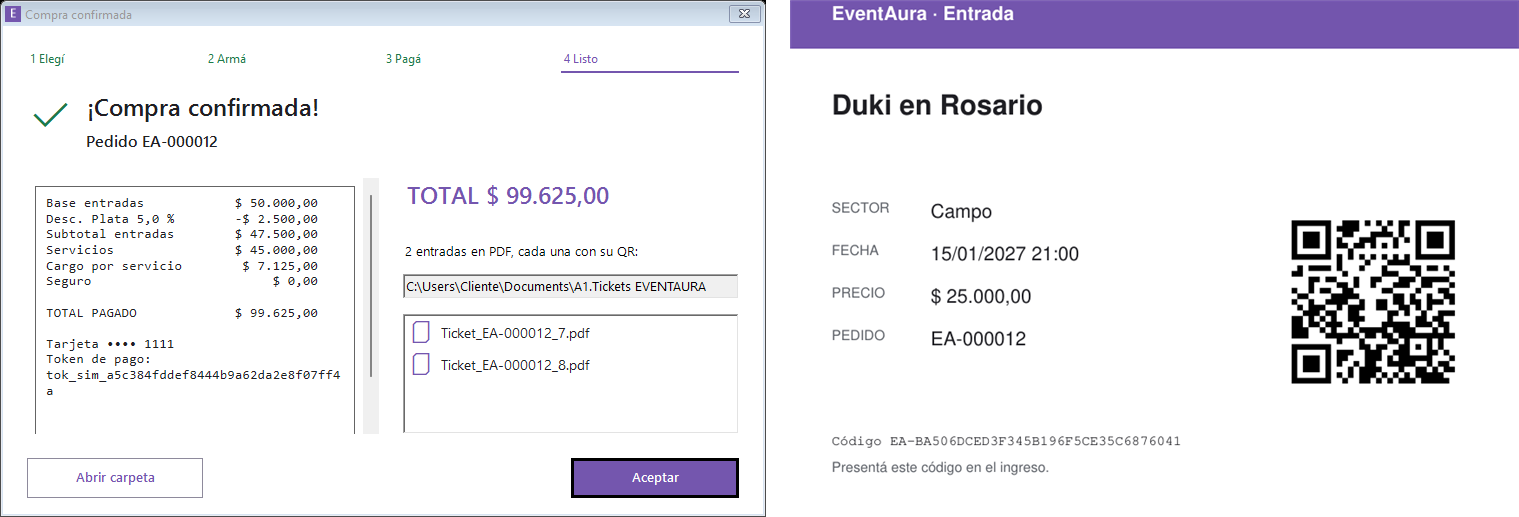
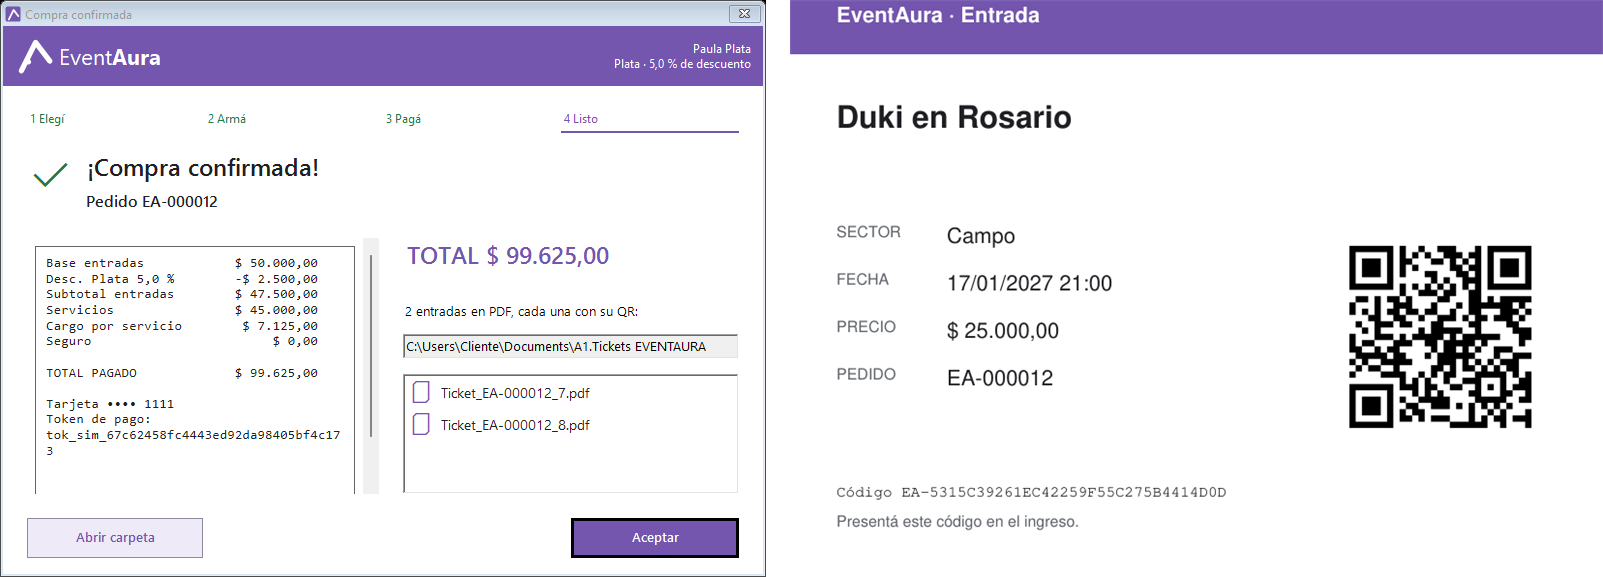
test: blindar códigos de cuenta y regenerar figuras de Paula

diff --git a/Pruebas/PruebasSeguridadCuenta.cs b/Pruebas/PruebasSeguridadCuenta.cs
@@ -1,4 +1,6 @@
 using System;
+using System.Diagnostics;
+using System.Linq;
 using System.Windows.Forms;
 using Datos;
 using Entidades;
@@ -41,6 +43,8 @@ namespace Pruebas
                     var mensaje = EnviadorSimulado.Ultimo(correo, "Verificacion");
                     Assert.IsNotNull(mensaje);
                     Assert.IsNotNull(form.Controls.Find("bandejaCorreoSimulada", true)[0]);
+                    Assert.IsTrue(ControlDe<Label>(form, "mensajeBandeja").Text.Contains(mensaje.Codigo));
+                    Assert.IsFalse(ControlDe<Label>(form, "estadoVerificacion").Text.Contains(mensaje.Codigo));
                     Assert.IsFalse(RepositorioUsuarios.Instance.CorreoVerificado(RepositorioUsuarios.Instance.ObtenerPorMail(correo).Id));
                     ControlDe<TextBox>(form, "txtCodigoCorreo").Text = mensaje.Codigo;
                     ControlDe<Button>(form, "btnConfirmarCorreo").PerformClick();
@@ -127,7 +131,11 @@ namespace Pruebas
                     ControlDe<Button>(form, "btnEnviarCodigo").PerformClick();
                     var mensaje = EnviadorSimulado.Ultimo(cliente.Mail, "Recuperacion");
                     Assert.IsNotNull(mensaje);
-                    Assert.IsTrue(ControlDe<Label>(form, "estadoRecuperacion").Text.Contains(mensaje.Codigo));
+                    Assert.AreEqual("Si la cuenta existe, enviamos un código.", ControlDe<Label>(form, "estadoRecuperacion").Text);
+                    Assert.IsFalse(TextosVisibles(form).Any(t => t.Contains(mensaje.Codigo)), "El formulario solicitante no muestra el código.");
+                    using (var bandeja = new Visual.frmBandejaSimulada(cliente.Mail, "Recuperacion"))
+                        Assert.IsTrue(ControlDe<Label>(bandeja, "mensajeBandejaSimulada").Text.Contains(mensaje.Codigo), "El código aparece solamente al abrir la bandeja simulada.");
+                    Assert.IsTrue(AbrirBandejaYVerCodigo(form, "btnAbrirBandejaSimulada", mensaje.Codigo));
                     ControlDe<TextBox>(form, "txtActual").Text = mensaje.Codigo;
                     ControlDe<TextBox>(form, "TxtPassword").Text = "NuevaClave123";
                     ControlDe<TextBox>(form, "TxtConfirmpassword").Text = "NuevaClave123";
@@ -137,6 +145,152 @@ namespace Pruebas
                     Assert.IsFalse(Seguridad.Verificar("Cliente123", hash));
                 }
             });
+        }
+
+        [TestMethod("CP-200: Recuperación no enumera correos y la respuesta tarda lo mismo")]
+        public void CP200_RecuperacionNoEnumeraYRespondeUniforme()
+        {
+            EnSta(() =>
+            {
+                const string existente = "admin@eventaura.com";
+                const string inexistente = "test-no-existe@pruebas.eventaura.com";
+                using (var form = new Visual.frmCambiarContraseña(true))
+                {
+                    Mostrar(form);
+                    ControlDe<TextBox>(form, "txtMail").Text = existente;
+                    var relojExistente = Stopwatch.StartNew();
+                    ControlDe<Button>(form, "btnEnviarCodigo").PerformClick();
+                    relojExistente.Stop();
+                    string respuestaExistente = ControlDe<Label>(form, "estadoRecuperacion").Text;
+                    var codigoExistente = EnviadorSimulado.Ultimo(existente, "Recuperacion");
+                    Assert.IsNotNull(codigoExistente);
+                    Assert.IsFalse(TextosVisibles(form).Any(t => t.Contains(codigoExistente.Codigo)));
+
+                    ControlDe<TextBox>(form, "txtMail").Text = inexistente;
+                    var relojInexistente = Stopwatch.StartNew();
+                    ControlDe<Button>(form, "btnEnviarCodigo").PerformClick();
+                    relojInexistente.Stop();
+                    string respuestaInexistente = ControlDe<Label>(form, "estadoRecuperacion").Text;
+                    var señuelo = EnviadorSimulado.Ultimo(inexistente, "Recuperacion");
+
+                    Assert.AreEqual("Si la cuenta existe, enviamos un código.", respuestaExistente);
+                    Assert.AreEqual(respuestaExistente, respuestaInexistente);
+                    Assert.IsNotNull(señuelo, "La bandeja simulada muestra el mismo formato para la dirección desconocida.");
+                    Assert.IsFalse(TextosVisibles(form).Any(t => t.Contains(señuelo.Codigo)));
+                    Assert.IsTrue(relojExistente.ElapsedMilliseconds >= 950 && relojInexistente.ElapsedMilliseconds >= 950,
+                        "Ambas solicitudes respetan el tiempo mínimo de respuesta uniforme.");
+                    Assert.IsTrue(Math.Abs(relojExistente.ElapsedMilliseconds - relojInexistente.ElapsedMilliseconds) < 400,
+                        "La diferencia observada entre los dos tiempos debe ser menor a 400 ms.");
+
+                    var error = Assert.ThrowsException<ReglaNegocioException>(() =>
+                        GestorCodigosCorreo.Instance.RecuperarContrasena(inexistente, señuelo.Codigo, "NuevaClave123"));
+                    Assert.AreEqual("RN-44", error.Regla);
+                    Assert.AreEqual("El código no es válido o venció. Solicitá uno nuevo.", error.Message);
+                }
+            });
+        }
+
+        [TestMethod("CP-201: Un nuevo código invalida el anterior y solo se usa una vez")]
+        public void CP201_CodigoAnteriorInvalidoYUnSoloUso()
+        {
+            var cliente = Fake.Cliente(NivelFidelidad.Bronce);
+            GestorCodigosCorreo.Instance.SolicitarRecuperacion(cliente.Mail);
+            var anterior = EnviadorSimulado.Ultimo(cliente.Mail, "Recuperacion");
+            GestorCodigosCorreo.Instance.SolicitarRecuperacion(cliente.Mail);
+            var actual = EnviadorSimulado.Ultimo(cliente.Mail, "Recuperacion");
+            Assert.IsNotNull(anterior);
+            Assert.IsNotNull(actual);
+            Assert.AreNotEqual(anterior.Codigo, actual.Codigo);
+            var errorAnterior = Assert.ThrowsException<ReglaNegocioException>(() =>
+                GestorCodigosCorreo.Instance.RecuperarContrasena(cliente.Mail, anterior.Codigo, "NuevaClave123"));
+            Assert.AreEqual("El código no es válido o venció. Solicitá uno nuevo.", errorAnterior.Message);
+
+            GestorCodigosCorreo.Instance.RecuperarContrasena(cliente.Mail, actual.Codigo, "NuevaClave123");
+            var errorReutilizado = Assert.ThrowsException<ReglaNegocioException>(() =>
+                GestorCodigosCorreo.Instance.RecuperarContrasena(cliente.Mail, actual.Codigo, "OtraClave123"));
+            Assert.AreEqual("El código no es válido o venció. Solicitá uno nuevo.", errorReutilizado.Message);
+        }
+
+        [TestMethod("CP-203: El alta existente y nueva entrega la misma respuesta de verificación")]
+        public void CP203_RegistroNoEnumeraCorreoExistente()
+        {
+            EnSta(() =>
+            {
+                string correo = Fake.MailNuevo();
+                long tiempoNuevo;
+                using (var nuevo = new Visual.frmCrearUsuario())
+                {
+                    Mostrar(nuevo);
+                    CompletarAlta(nuevo, correo, "PrimeraClave123", "Primero");
+                    var reloj = Stopwatch.StartNew();
+                    ControlDe<Button>(nuevo, "btnregistrarse").PerformClick();
+                    reloj.Stop();
+                    tiempoNuevo = reloj.ElapsedMilliseconds;
+                    Assert.IsNotNull(nuevo.Controls.Find("bandejaCorreoSimulada", true).Single());
+                }
+
+                string hashAnterior = RepositorioUsuarios.Instance.ObtenerPorMail(correo).Contraseña;
+                long tiempoExistente;
+                using (var existente = new Visual.frmCrearUsuario())
+                {
+                    Mostrar(existente);
+                    CompletarAlta(existente, correo, "OtraClave456", "Segundo");
+                    var reloj = Stopwatch.StartNew();
+                    ControlDe<Button>(existente, "btnregistrarse").PerformClick();
+                    reloj.Stop();
+                    tiempoExistente = reloj.ElapsedMilliseconds;
+                    Assert.IsNotNull(existente.Controls.Find("bandejaCorreoSimulada", true).Single());
+                    var mensaje = EnviadorSimulado.Ultimo(correo, "Verificacion");
+                    Assert.IsNotNull(mensaje);
+                    Assert.IsTrue(ControlDe<Label>(existente, "mensajeBandeja").Text.Contains(mensaje.Codigo));
+                }
+
+                Assert.AreEqual(hashAnterior, RepositorioUsuarios.Instance.ObtenerPorMail(correo).Contraseña,
+                    "El intento de alta repetido no cambia la contraseña de la cuenta existente.");
+                Assert.IsTrue(tiempoNuevo >= 950 && tiempoExistente >= 950);
+                Assert.IsTrue(Math.Abs(tiempoNuevo - tiempoExistente) < 400,
+                    "El alta nueva y el correo ya registrado tardan lo mismo hasta mostrar la bandeja.");
+            });
+        }
+
+        private static void CompletarAlta(Visual.frmCrearUsuario form, string correo, string clave, string nombre)
+        {
+            ControlDe<TextBox>(form, "txtNombre").Text = nombre;
+            ControlDe<TextBox>(form, "txtApellido").Text = "Prueba";
+            ControlDe<TextBox>(form, "txtmail").Text = correo;
+            ControlDe<TextBox>(form, "TxtPassword").Text = clave;
+            ControlDe<TextBox>(form, "TxtConfirmpassword").Text = clave;
+        }
+
+        private static System.Collections.Generic.IEnumerable<string> TextosVisibles(Control padre)
+        {
+            foreach (Control control in padre.Controls)
+            {
+                if (!string.IsNullOrEmpty(control.Text)) yield return control.Text;
+                foreach (string texto in TextosVisibles(control)) yield return texto;
+            }
+        }
+
+        private static bool AbrirBandejaYVerCodigo(Control origen, string nombreBoton, string codigo)
+        {
+            bool abierta = false;
+            bool codigoVisible = false;
+            using (var temporizador = new Timer { Interval = 25 })
+            {
+                temporizador.Tick += (s, e) =>
+                {
+                    var bandeja = Application.OpenForms.OfType<Visual.frmBandejaSimulada>().FirstOrDefault(f => f.Visible);
+                    if (bandeja == null) return;
+                    abierta = true;
+                    codigoVisible = ControlDe<Label>(bandeja, "mensajeBandejaSimulada").Text.Contains(codigo);
+                    bandeja.Close();
+                    temporizador.Stop();
+                };
+                temporizador.Start();
+                ControlDe<Button>(origen, nombreBoton).PerformClick();
+                temporizador.Stop();
+            }
+            return abierta && codigoVisible;
         }
 
         [TestMethod("CP-174: La sesión avisa y vence por inactividad, y la auditoría queda consultable solo por administración")]

diff --git a/Pruebas/PruebasSolicitudesOrganizador.cs b/Pruebas/PruebasSolicitudesOrganizador.cs
@@ -190,6 +190,60 @@ namespace Pruebas
             Assert.IsTrue(auditoria.Any(x=>x.UsuarioId==admin.Id && x.EntidadId==id && x.Resultado=="Datos de demostración revisados."));
         }
 
+        [TestMethod("CP-202: El código telefónico solo aparece al abrir la bandeja simulada")]
+        public void CP202_CodigoTelefonoNoApareceEnLaSolicitud()
+        {
+            InterfazGrupoA.EnSta(() =>
+            {
+                var solicitante = Fake.Cliente(NivelFidelidad.Bronce);
+                Fake.ComoCliente(solicitante);
+                using (var form = new Visual.frmSolicitudOrganizador())
+                {
+                    InterfazGrupoA.Mostrar(form);
+                    InterfazGrupoA.ControlDe<TextBox>(form, "telefono").Text = Telefono;
+                    InterfazGrupoA.ControlDe<Button>(form, "btnEnviarCodigoTelefono").PerformClick();
+                    var mensaje = EnviadorSimulado.Ultimo(Telefono, GestorCodigosCorreo.PropositoTelefonoOrganizador);
+                    Assert.IsNotNull(mensaje, InterfazGrupoA.ControlDe<Label>(form, "estadoEnvioTelefono").Text);
+                    Assert.AreEqual("Si el teléfono es válido, enviamos un código a la bandeja simulada.",
+                        InterfazGrupoA.ControlDe<Label>(form, "estadoEnvioTelefono").Text);
+                    Assert.IsFalse(TextosVisibles(form).Any(t => t.Contains(mensaje.Codigo)),
+                        "El código no debe aparecer en el formulario que lo solicita.");
+                    Assert.IsTrue(AbrirBandejaYVerCodigo(form, mensaje.Codigo));
+                }
+            });
+        }
+
+        private static System.Collections.Generic.IEnumerable<string> TextosVisibles(Control padre)
+        {
+            foreach (Control control in padre.Controls)
+            {
+                if (!string.IsNullOrEmpty(control.Text)) yield return control.Text;
+                foreach (string texto in TextosVisibles(control)) yield return texto;
+            }
+        }
+
+        private static bool AbrirBandejaYVerCodigo(Control origen, string codigo)
+        {
+            bool abierta = false;
+            bool codigoVisible = false;
+            using (var temporizador = new Timer { Interval = 25 })
+            {
+                temporizador.Tick += (s, e) =>
+                {
+                    var bandeja = Application.OpenForms.OfType<Visual.frmBandejaSimulada>().FirstOrDefault(f => f.Visible);
+                    if (bandeja == null) return;
+                    abierta = true;
+                    codigoVisible = InterfazGrupoA.ControlDe<Label>(bandeja, "mensajeBandejaSimulada").Text.Contains(codigo);
+                    bandeja.Close();
+                    temporizador.Stop();
+                };
+                temporizador.Start();
+                InterfazGrupoA.ControlDe<Button>(origen, "btnAbrirBandejaTelefono").PerformClick();
+                temporizador.Stop();
+            }
+            return abierta && codigoVisible;
+        }
+
         private SolicitudOrganizador SolicitudValida() => new SolicitudOrganizador { Responsable="Responsable de prueba", Cuit="20-12345678-6", Telefono=Telefono,
             NombreLocal="test local de prueba", Direccion="Dirección de prueba 123", Capacidad=100, CbuAlias=new string('0',22), Documentacion=Png, NombreArchivo="constancia.png" };
 

diff --git a/Pruebas/PruebasFormularios.cs b/Pruebas/PruebasFormularios.cs
@@ -53,7 +53,12 @@ namespace Pruebas
                     else if (tipo.Name == "frmSolicitudOrganizador") Fake.ComoCliente(Fake.Cliente(Entidades.NivelFidelidad.Bronce));
                     try
                     {
-                        using (var formulario = (Form)Activator.CreateInstance(tipo))
+                        Form formulario;
+                        if (tipo.Name == "frmBandejaSimulada")
+                            formulario = new Visual.frmBandejaSimulada("sin-mensajes@pruebas.eventaura.com", "Recuperacion");
+                        else
+                            formulario = (Form)Activator.CreateInstance(tipo);
+                        using (formulario)
                         {
                             if (formulario.ClientSize.Height > AltoMaximo)
                                 problemas.Add($"{tipo.Name}: declara {formulario.ClientSize.Height} px de alto (maximo {AltoMaximo})");
@@ -90,8 +95,8 @@ namespace Pruebas
             }
 
             // SEG-2 incorpora control de ingreso y la fase de seguridad incorpora auditoría.
-            // Las vistas de solicitudes y revisión del primer evento elevan el inventario a 25.
-            Assert.AreEqual(25, formularios.Count, "Formularios encontrados: " + string.Join(", ", formularios.Select(t => t.Name)));
+            // Las vistas de solicitudes, revisión del primer evento y bandeja simulada elevan el inventario a 26.
+            Assert.AreEqual(26, formularios.Count, "Formularios encontrados: " + string.Join(", ", formularios.Select(t => t.Name)));
             Assert.AreEqual(0, problemas.Count, string.Join(Environment.NewLine, problemas));
         }
 

diff --git a/Pruebas/PruebasGuardasMutacion.cs b/Pruebas/PruebasGuardasMutacion.cs
@@ -70,11 +70,11 @@ namespace Pruebas {
   // CP-140 — RF-05, RN-41: no armar un paquete para otro.
   [TestMethod("CP-140: Nuevo paquete exige titular")]
   public void CP140_Paquete(){Rechaza(()=>GestorPaquetes.Instance.Nuevo(e.Id,a.Id),"RN-41");Fake.ComoCliente(a);Assert.AreEqual(e.Id,GestorPaquetes.Instance.Nuevo(e.Id,a.Id).IdEvento);}
-  // CP-141 — RF-12, RN-34: consulta operativa exclusiva del administrador.
-  [TestMethod("CP-141: PorPropietario exige administrador")]
+  // CP-141 — RF-12, RN-48: consultar los locales requiere perfil de Organizador.
+  [TestMethod("CP-141: PorPropietario requiere sesión de Organizador")]
   public void CP141_Locales(){var organizador=Fake.Organizador();int id=organizador.Id;Rechaza(()=>GestorLocales.Instance.PorPropietario(id),"RN-48");Fake.ComoOrganizador();Assert.IsTrue(GestorLocales.Instance.PorPropietario(id).Count>0);}
-  // CP-142 — RF-07, RN-34: listado de ingreso administrativo.
-  [TestMethod("CP-142: EventosConIngresoAbierto exige administrador")]
+  // CP-142 — RF-07, RN-48: el listado de ingreso requiere perfil de Organizador.
+  [TestMethod("CP-142: EventosConIngresoAbierto requiere sesión de Organizador")]
   public void CP142_EventosIngreso(){var organizador=Fake.Organizador();Rechaza(()=>GestorIngresos.Instance.EventosConIngresoAbierto(),"RN-48");Fake.ComoOrganizador(organizador);Assert.IsNotNull(GestorIngresos.Instance.EventosConIngresoAbierto());}
   // CP-143 — RF-11, RN-34: ejecutar reporte ya creado requiere autenticar de nuevo.
   [TestMethod("CP-143: Ejecutar reporte existente exige administrador")]

diff --git a/Pruebas/PruebasGrupoAListasYMenus.cs b/Pruebas/PruebasGrupoAListasYMenus.cs
@@ -16,7 +16,7 @@ namespace Pruebas
         // CP-83 — RF-10, RN-35; PA-18, 8.23/8.25: lista ordenada y propietario sin listas.
         [DataTestMethod]
         [DataRow(false, DisplayName = "CP-83: Lista agotada muestra columnas, prioridad y contadores")]
-        [DataRow(true, DisplayName = "CP-83: Propietario sin listas ve el combo deshabilitado")]
+        [DataRow(true, DisplayName = "CP-83: Organizador sin listas ve el combo deshabilitado")]
         public void CP83_ListasDeEspera(bool vacia)
         {
             EnSta(() =>
@@ -92,7 +92,7 @@ namespace Pruebas
 
         // CP-85 — RF-11/RF-12, RNF-02/RNF-03; PA-20, 9.1/9.16/8.26: menús y separación de capas.
         [DataTestMethod]
-        [DataRow("propietario", DisplayName = "CP-85: Menú de propietario mantiene acciones visibles al 100 y 150 por ciento")]
+        [DataRow("propietario", DisplayName = "CP-85: Menú de Organizador mantiene acciones visibles al 100 y 150 por ciento")]
         [DataRow("cliente", DisplayName = "CP-85: El menú de cliente no ofrece reportes")]
         [DataRow("arquitectura", DisplayName = "CP-85: Visual no contiene conexiones ni comandos SQL")]
         public void CP85_MenusYCapas(string escenario)

diff --git a/Pruebas/CapturasInstructivoCongelado.cs b/Pruebas/CapturasInstructivoCongelado.cs
@@ -16,8 +16,9 @@ namespace Pruebas {
   public static void Generar(string salida){
    Directory.CreateDirectory(salida);BaseDePrueba.Preparar(null);
    PruebasSeguridad.EnStaSinCambiarDatos(()=>{
-    GestorUsuarios.Instance.Autenticar("plata@eventaura.com","Cliente123");
-    var cliente=GestorFidelizacion.Instance.ObtenerCliente(3);var evento=RepositorioEventos.Instance.ObtenerPorId(1);
+    var usuario=GestorUsuarios.Instance.Autenticar("plata@eventaura.com","Cliente123");
+    if(usuario==null)throw new InvalidOperationException("No se pudo autenticar a Paula para la captura.");
+    var cliente=GestorFidelizacion.Instance.ObtenerCliente(usuario.Id);var evento=RepositorioEventos.Instance.ObtenerPorId(1);
     using(var listado=new Visual.frmEventosCliente{IDUsuario=cliente.Id,NombreUsuario=cliente.Nombre})
     using(var form=new Visual.FrmCompraCliente{IDUsuario=cliente.Id,IDEvento=evento.Id,NombreUsuario=cliente.Nombre}) {
      listado.Show();Application.DoEvents();var grilla=C<DataGridView>(listado,"dgveventos");

diff --git a/Pruebas/BaseDePrueba.cs b/Pruebas/BaseDePrueba.cs
@@ -37,6 +37,8 @@ namespace Pruebas
             // También para los hilos STA creados por los casos: una excepción hace
             // fallar el caso, nunca abre el diálogo modal del framework.
             ConfigurarErroresDePrueba();
+            EnviadorSimulado.DirectorioBandeja = Path.Combine(RaizDelRepositorio(), "TestResults", "BandejaSimulada");
+            EnviadorSimulado.LimpiarBandeja();
             string cadena = CadenaDePrueba();
             string nombre = new SqlConnectionStringBuilder(cadena).InitialCatalog;
 

diff --git a/Pruebas/PruebasGrupoALogin.cs b/Pruebas/PruebasGrupoALogin.cs
@@ -15,7 +15,7 @@ namespace Pruebas
         // CP-66 — RF-02, RN-05; PA-01, filas 3.1/C.1: foco y navegación real del administrador.
         [DataTestMethod]
         [DataRow(false, DisplayName = "CP-66: Login inicia con foco en el correo")]
-        [DataRow(true, DisplayName = "CP-66: Administrador entra al menú de propietario")]
+        [DataRow(true, DisplayName = "CP-66: Administrador entra al menú de administración")]
         public void CP66_FocoYMenuDelAdministrador(bool iniciar)
         {
             EnSta(() =>
